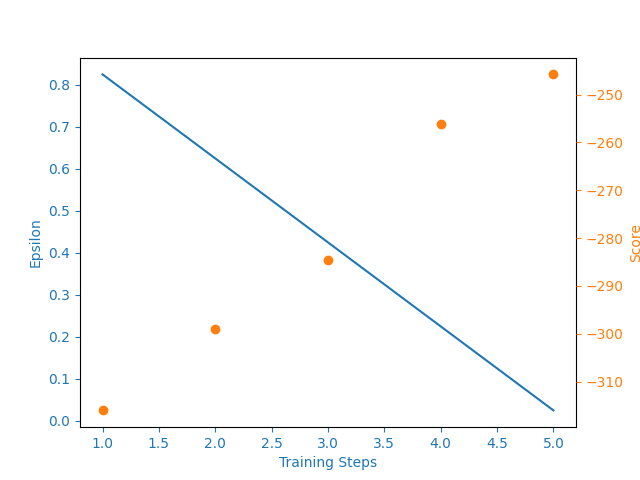
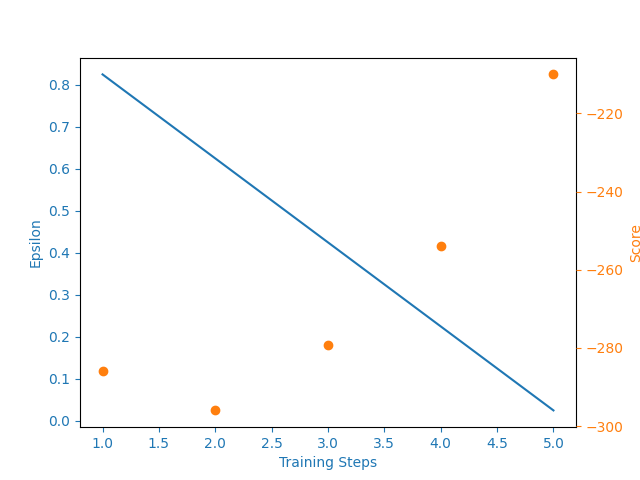
added flexible amount of agents in trainer and fixed reward distribution.

diff --git a/environment.py b/environment.py
@@ -28,6 +28,7 @@ class VipGame(gym.Env):
     def __init__(self, grid_map, max_timesteps=500):
         # Initialize the grid, dimensions, max timesteps, and elapsed timesteps
         self.defenderside_collision_set = []
+        self.original_grid = np.copy(grid_map)
         self.grid = np.copy(grid_map)
         self.grid_height, self.grid_width = self.grid.shape
         self.max_timesteps = max_timesteps
@@ -76,24 +77,7 @@ class VipGame(gym.Env):
         self.screen = None
         
         # Find and set the initial positions of agents
-        self._initialize_positions()
-
-    def _initialize_positions(self):
-        # Loop through the grid to find initial positions of agents
-        for i in range(self.grid_height):
-            for j in range(self.grid_width):
-                if self.grid[i, j] == VIP:
-                    self.vip_positions.append((i, j))  # VIP position
-                    self.number_of_vips += 1
-                elif self.grid[i, j] == DEFENDER:
-                    self.defender_positions.append((i, j))  # Defender position
-                    self.number_of_defenders += 1
-                elif self.grid[i, j] == ATTACKER:
-                    self.attacker_positions.append((i, j))  # Attacker position
-                    self.number_of_attackers += 1
-        self.live_vips = [True] * self.number_of_vips
-        self.live_attackers = [True] * self.number_of_attackers
-        self.live_defenders = [True] * self.number_of_defenders
+        self.reset()
 
 
     def _move_agent(self, position, action, agent_type, agent_id):
@@ -116,13 +100,14 @@ class VipGame(gym.Env):
         if (0 <= new_position[0] < self.grid_height and 0 <= new_position[1] < self.grid_width):  # disallow collision with same team and walls
             
             if (agent_type == ATTACKER and self.grid[new_position] == VIP):
+                print("vip killed")
                 self.grid[new_position] = self.grid[position]
                 self.grid[position] = 0
                 # Move VIP to the death cell
                 vip_index = self.vip_positions.index(new_position)
                 self.vip_positions[vip_index] = self.dead_cell
                 self.number_of_vip_dead += 1
-                return new_position, 2  # median reward for killing VIP
+                return new_position, 10
             
             # when a defender and an attacker meet each other, both die
             if (self.grid[new_position] in killset):
@@ -271,7 +256,35 @@ class VipGame(gym.Env):
     def reset(self):
         # Reset the environment to its initial state
         self.timesteps_elapsed = 0
-        self._initialize_positions()
+        
+        self.number_of_vip_dead = 0
+        self.number_of_attacker_dead = 0
+        self.number_of_defender_dead = 0
+        
+        self.number_of_attackers = 0
+        self.number_of_defenders = 0
+        self.number_of_vips = 0
+        
+        self.attacker_positions = []
+        self.defender_positions = []
+        self.vip_positions = []
+        
+        self.grid = np.copy(self.original_grid)
+        # Loop through the grid to find initial positions of agents
+        for i in range(self.grid_height):
+            for j in range(self.grid_width):
+                if self.grid[i, j] == VIP:
+                    self.vip_positions.append((i, j))  # VIP position
+                    self.number_of_vips += 1
+                elif self.grid[i, j] == DEFENDER:
+                    self.defender_positions.append((i, j))  # Defender position
+                    self.number_of_defenders += 1
+                elif self.grid[i, j] == ATTACKER:
+                    self.attacker_positions.append((i, j))  # Attacker position
+                    self.number_of_attackers += 1
+        self.live_vips = [True] * self.number_of_vips
+        self.live_attackers = [True] * self.number_of_attackers
+        self.live_defenders = [True] * self.number_of_defenders
         return self.grid
             
 

diff --git a/trainer.py b/trainer.py
@@ -71,7 +71,7 @@ if __name__ == '__main__':
             defender_actions = []
             vip_actions = []
 
-            for j in range(1):
+            for j in range(env.number_of_attackers):
                 if env.attacker_positions[j] == env.dead_cell:
                     attacker_actions.append(-1)
                     
@@ -79,7 +79,8 @@ if __name__ == '__main__':
                     attacker_state = individual_state(observation, env.attacker_positions[j], env.grid_width)
                     attacker_agent_action = attacker_agent.choose_action(attacker_state)
                     attacker_actions.append(attacker_agent_action)
-
+                    
+            for j in range(env.number_of_defenders):
                 if env.defender_positions[j] == env.dead_cell:
                     defender_actions.append(-1)
 
@@ -88,6 +89,7 @@ if __name__ == '__main__':
                     defender_agent_action = defender_agent.choose_action(defender_state)
                     defender_actions.append(defender_agent_action)
 
+            for j in range(env.number_of_vips):
                 if env.vip_positions[j] == env.dead_cell:
                     vip_actions.append(-1)
 
@@ -107,14 +109,19 @@ if __name__ == '__main__':
             score['attacker'] += sum(attacker_reward)
             score['defender'] += sum(defender_reward)
             score['vip'] += sum(vip_reward)
-
-            vip_agent.store_transition(observation, actions[2][0], sum(vip_reward), observation_, truncated)
+            
+            for k in range(env.number_of_attackers):
+                if env.attacker_positions[k] != env.dead_cell:
+                    attacker_agent.store_transition(individual_state(observation, env.attacker_positions[k], env.grid_width), actions[0][k], attacker_reward[k], individual_state(observation_, env.attacker_positions[k], env.grid_width), truncated)
+            for k in range(env.number_of_defenders):
+                if env.defender_positions[k] != env.dead_cell:
+                    defender_agent.store_transition(individual_state(observation, env.defender_positions[k], env.grid_width), actions[1][k], defender_reward[k], individual_state(observation_, env.defender_positions[k], env.grid_width), truncated)
+            for k in range(env.number_of_vips):
+                if env.vip_positions[k] != env.dead_cell:
+                    vip_agent.store_transition(individual_state(observation, env.vip_positions[k], env.grid_width), actions[2][k], vip_reward[k], individual_state(observation_, env.vip_positions[k], env.grid_width), truncated)
+            
             vip_agent.learn()
-
-            attacker_agent.store_transition(observation, actions[0][0], sum(attacker_reward), observation_, truncated)
             attacker_agent.learn()
-
-            defender_agent.store_transition(observation, actions[1][0], sum(defender_reward), observation_, truncated)
             defender_agent.learn()
 
             observation = observation_
@@ -187,7 +194,7 @@ if __name__ == '__main__':
         (defender_positions, attacker_positions, vip_positions), truncated, terminate = env.step(actions)
 
         observation_ = fully_visible_state.flatten()
-
+        print(fully_visible_state)
         env.render(fully_visible_state)
         time.sleep(0.05)  # Wait for 100ms
 
